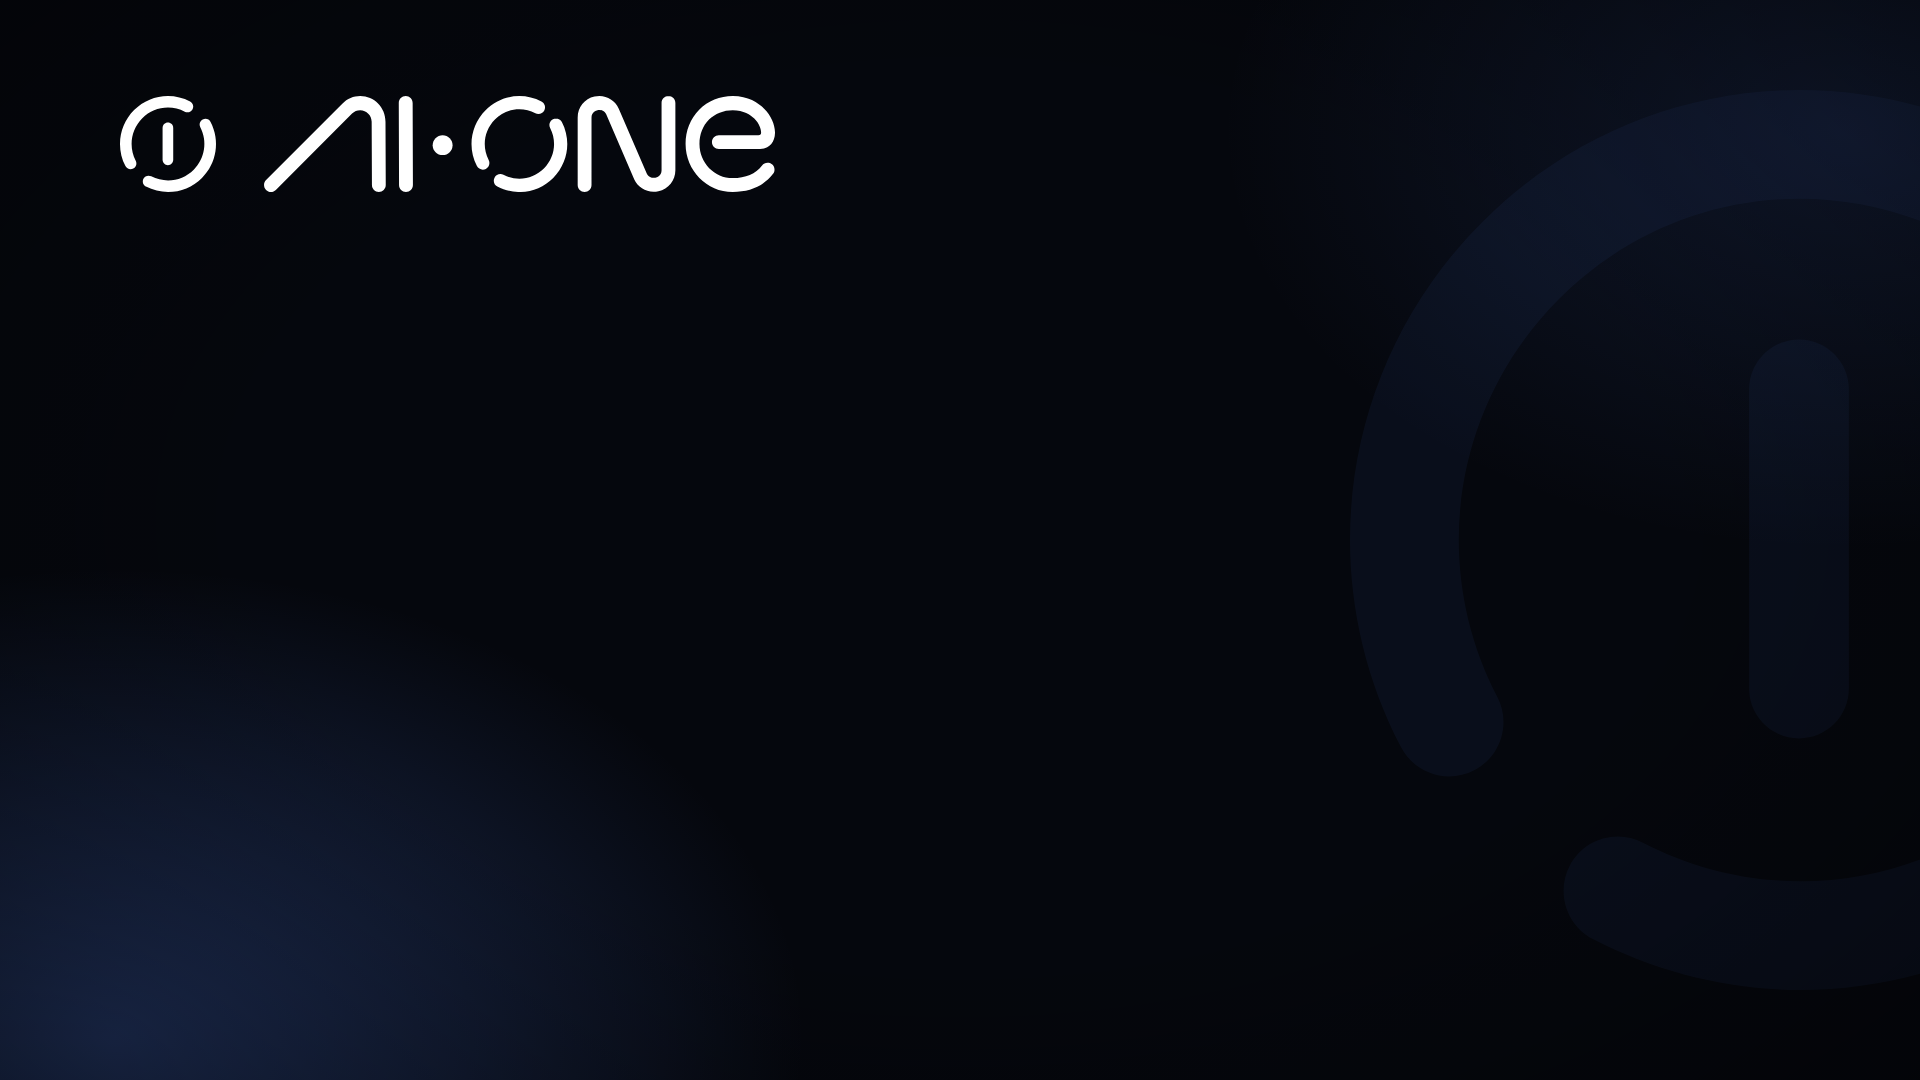
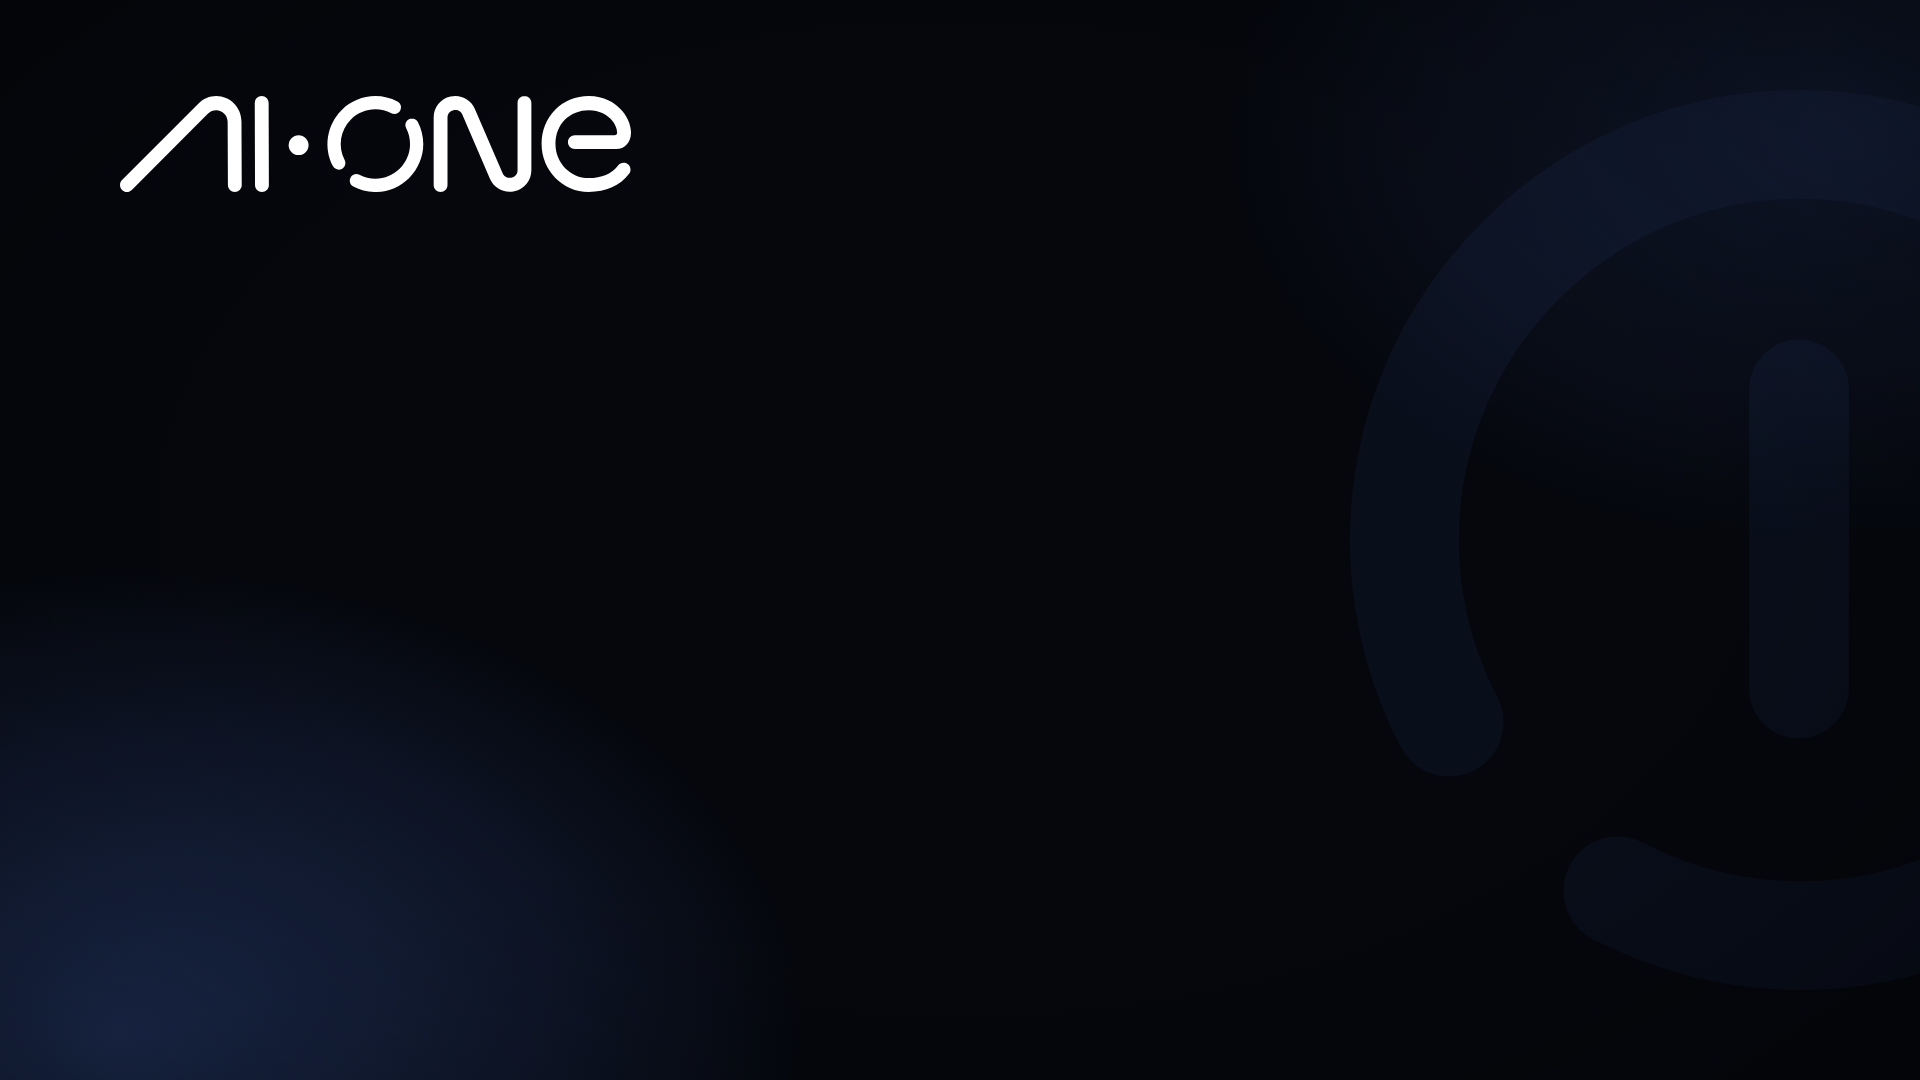
Use the wordmark alone top-left, not the full lockup
The circular mark already appears oversized on the right edge, so repeating it
beside the type doubled it up. Top-left is now just AI-ONE.

Adds logo/ai-one-wordmark-{black,white,blue}.svg, split out of the lockup
vectors so the letterforms are untouched. Height stays at 96px, which keeps the
stroke weight that survives Zoom's video encode.

?logo=wordmark|lockup|mark still selects any of the three; wordmark is default.
Verified all three variants place the wordmark identically at x120-630, y96-191.

Claude-Session: https://claude.ai/code/session_01RmgrkJSf4A9B1oybvDBKN9

Changed region(s): [[0.0625, 0.0917, 0.4062, 0.1833]]

diff --git a/zoom-backgrounds/background.html b/zoom-backgrounds/background.html
@@ -116,7 +116,7 @@
   </div>
 
 <script>
-  // ?variant=midnight|light|blue   ?tagline=...   ?logo=lockup|mark
+  // ?variant=midnight|light|blue   ?tagline=...   ?logo=wordmark|lockup|mark
   var q = new URLSearchParams(location.search);
   var variant = q.get('variant') || 'midnight';
   var stage = document.getElementById('stage');
@@ -127,7 +127,11 @@
 
   // Black logo art on the light background, white art on the dark ones.
   var ink = (variant === 'light') ? 'black' : 'white';
-  document.getElementById('lockup-img').src = 'logo/ai-one-' + (q.get('logo') === 'mark' ? 'mark' : 'lockup') + '-' + ink + '.svg';
+  // Wordmark by default: the circular mark already appears oversized on the
+  // right, so repeating it beside the type just doubles it up.
+  var logo = q.get('logo');
+  if (['wordmark','lockup','mark'].indexOf(logo) < 0) logo = 'wordmark';
+  document.getElementById('lockup-img').src = 'logo/ai-one-' + logo + '-' + ink + '.svg';
   document.getElementById('ghost-img').src = 'logo/ai-one-mark-' + (variant === 'light' ? 'blue' : (variant === 'blue' ? 'white' : 'blue')) + '.svg';
 
   // Optional supporting line under the lockup, e.g. ?tagline=Artificial%20Intelligence

diff --git a/zoom-backgrounds/README.md b/zoom-backgrounds/README.md
@@ -60,9 +60,13 @@ resolution — HD enabled, CPU headroom, network — not the source file.
 
 ## Logo assets
 
-`logo/` holds the mark and the full AI·ONE lockup in black, white and brand blue
-(`#5789FF`). The paths came straight from the Figma export, so they're the real
-vectors, not a redraw.
+`logo/` holds three forms — wordmark, circular mark, and the full lockup — each
+in black, white and brand blue (`#5789FF`). The paths came straight from the
+Figma export, so they're the real vectors, not a redraw.
+
+The backgrounds use the **wordmark** top-left, not the lockup: the circular mark
+already appears oversized on the right edge, so setting it beside the type as
+well just doubles it up.
 
 ## Re-rendering
 
@@ -79,4 +83,4 @@ Open `background.html` in a browser to preview. It takes query parameters:
 
 - `?variant=midnight|light|blue`
 - `?tagline=Some%20supporting%20line` — off by default
-- `?logo=mark` — mark only, no wordmark
+- `?logo=wordmark|lockup|mark` — wordmark is the default
